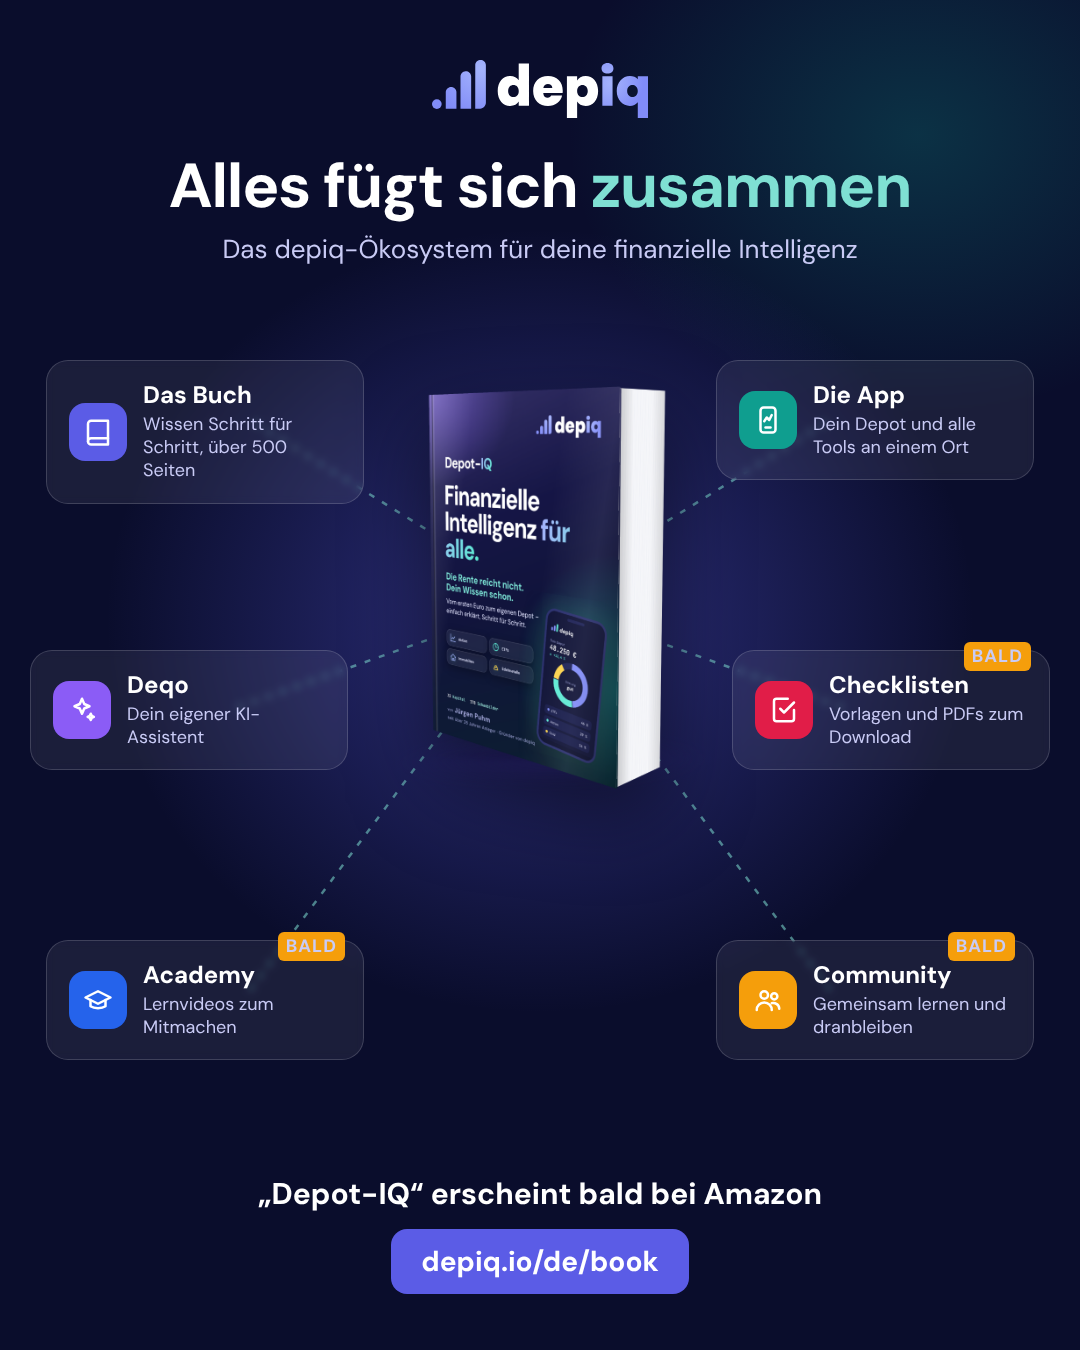
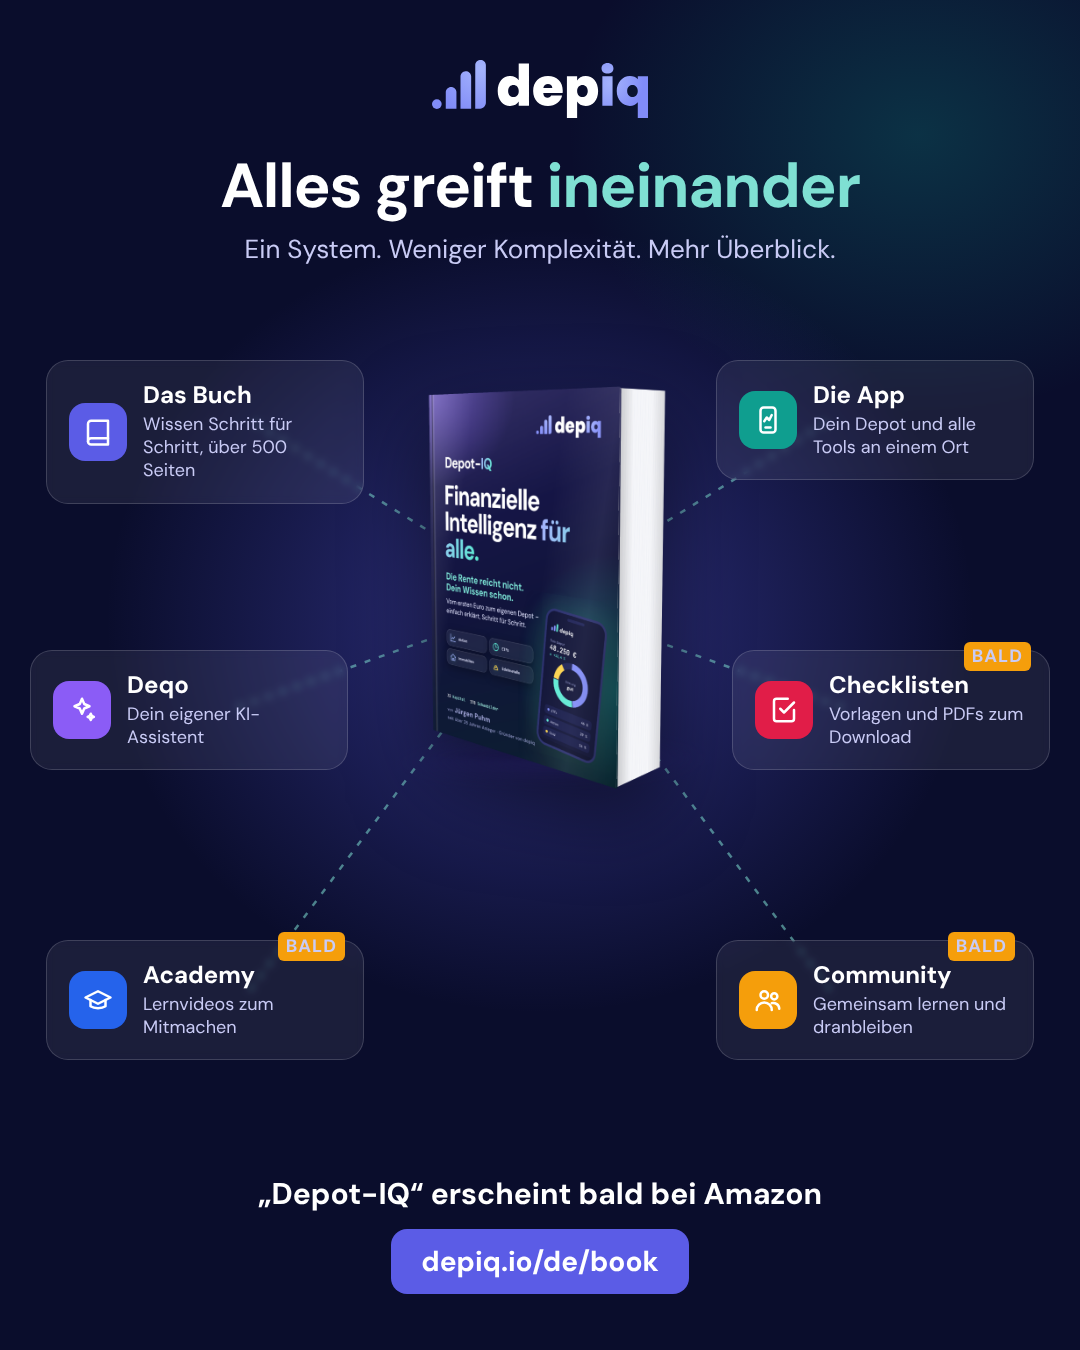
Facebook: Grafik-Titel Zahnrad
Claude-Session: https://claude.ai/code/session_01TCMRwfkoPUXt6cdHJjM9Lg

Changed region(s): [[0.1528, 0.1244, 0.8556, 0.2178], [0.7333, 0.1867, 0.7639, 0.2178]]

diff --git a/facebook/oekosystem.html b/facebook/oekosystem.html
@@ -20,7 +20,7 @@ footer{position:absolute;bottom:56px;left:0;right:0;text-align:center}
 footer .z{font-size:30px;font-weight:700}
 footer .u{display:inline-block;margin-top:16px;font-size:28px;font-weight:700;background:#5b5ce6;padding:14px 30px;border-radius:16px}
 </style></head><body><div class="glow"></div>
-<header><img src="logo.svg" alt="depiq"><h1>Alles fügt sich <em>zusammen</em></h1><div class="sub">Das depiq-Ökosystem für deine finanzielle Intelligenz</div></header>
+<header><img src="logo.svg" alt="depiq"><h1>Alles greift <em>ineinander</em></h1><div class="sub">Ein System. Weniger Komplexität. Mehr Überblick.</div></header>
 <svg class="linien" width="1080" height="1350"><g stroke="rgba(127,224,211,.55)" stroke-width="2.5" stroke-dasharray="6 9" fill="none">
 <path d="M540 600 L250 420"/><path d="M540 600 L830 420"/><path d="M540 600 L230 710"/><path d="M540 600 L850 710"/><path d="M540 600 L250 990"/><path d="M540 600 L830 990"/></g></svg>
 <img class="buch" src="buch3d.png" alt="">
